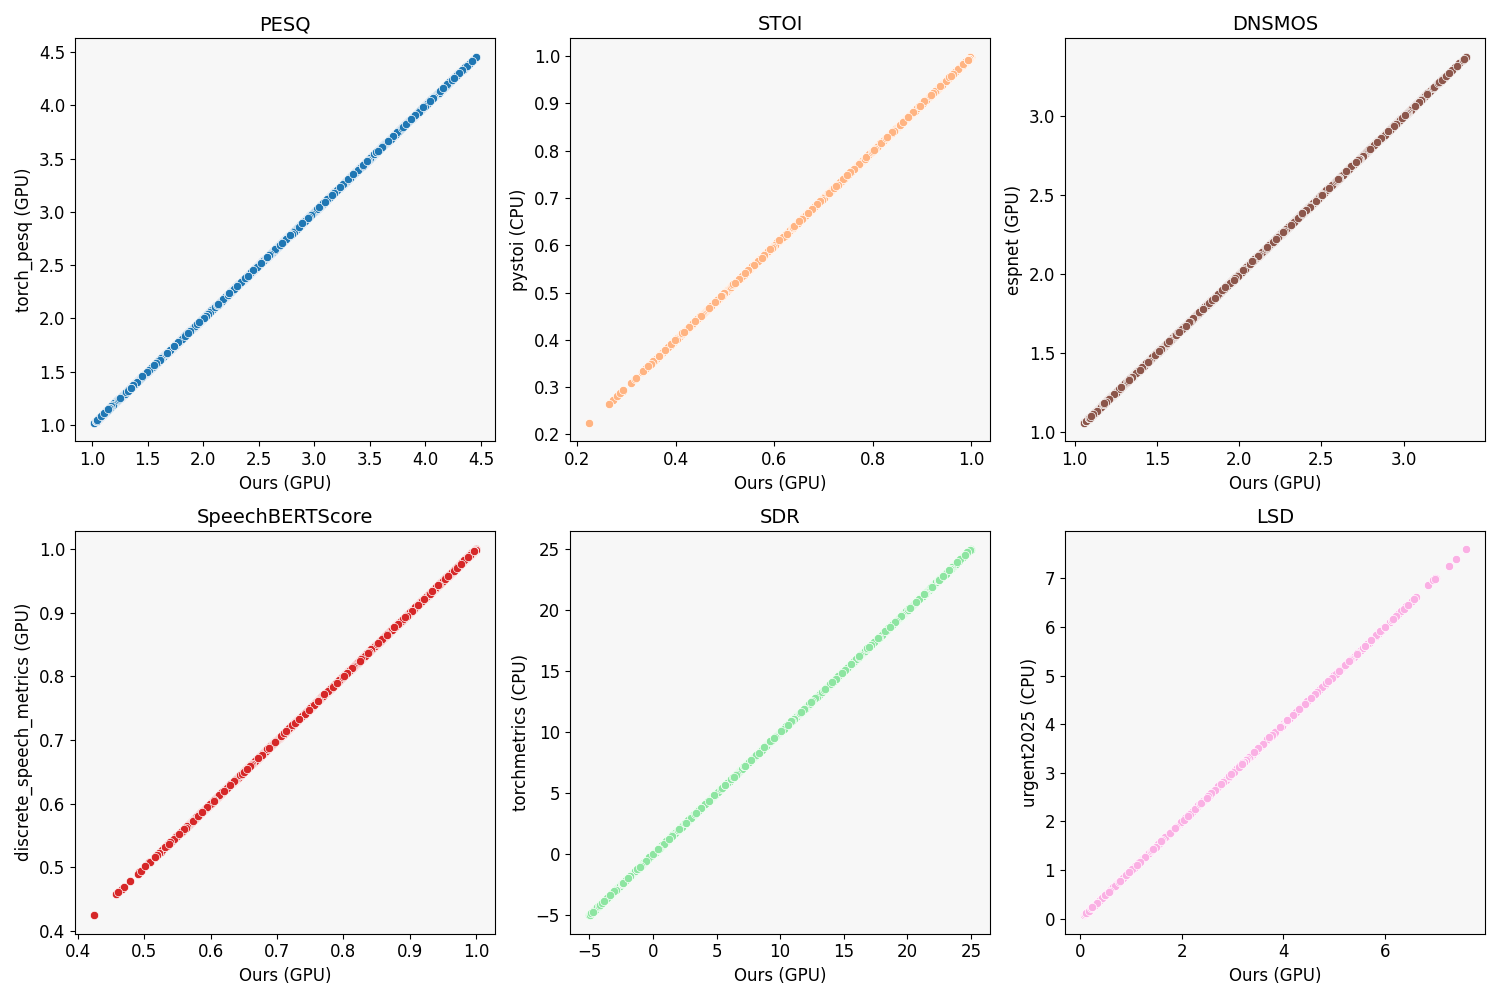
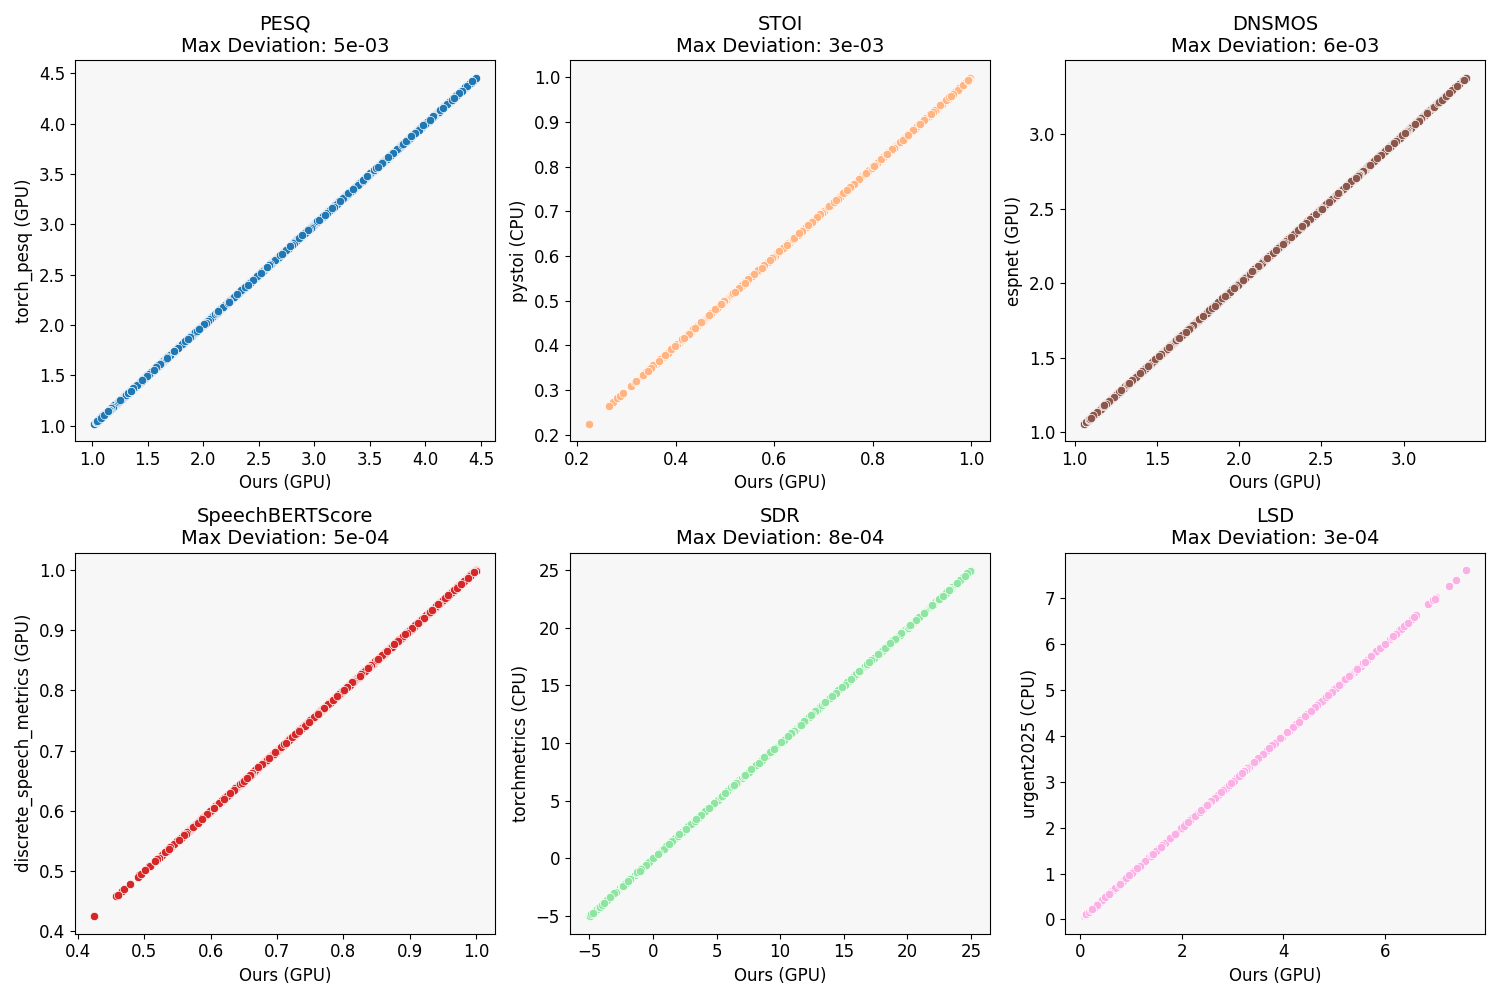
add max deviation to plot

diff --git a/benchmarking/plotting/plot_deviations.py b/benchmarking/plotting/plot_deviations.py
@@ -1,6 +1,6 @@
 import seaborn as sns
 import matplotlib.pyplot as plt
-
+import numpy as np
 from benchmarking.plotting.settings import DEVIATION_SETTINGS, PLOTS_DIR, RESULTS_DIR, NAME_MAPPING
 from benchmarking.plotting.utils import load_values
 
@@ -15,7 +15,8 @@ def plot_deviations(results_dir, deviation_settings):
         name_reference, device_reference, color = NAME_MAPPING[settings["metric_reference"]]
 
         sns.scatterplot(x=optimized_values, y=reference_values, ax=ax, color=color)
-        ax.set_title(settings["name"], fontsize=14)
+        maximum_deviation = np.abs(np.array(optimized_values) - np.array(reference_values)).max()
+        ax.set_title(f"{settings['name']}\nMax Deviation: {maximum_deviation:.0e}", fontsize=14)
 
         ax.set_xlabel(f"{name_optimized} ({device_optimized})", fontsize=12)
         ax.set_ylabel(f"{name_reference} ({device_reference})", fontsize=12)
